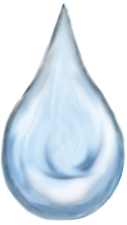
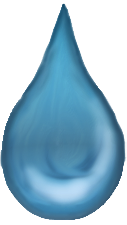
drops, enemy and player sprite upd

diff --git a/public/js/game.js b/public/js/game.js
@@ -123,13 +123,14 @@ function preload() {
     game.load.image('enemy', 'assets/enemy.png');
     game.load.image('p_def_weapon', 'assets/player_drop.png');
     game.load.image('e_def_weapon', 'assets/enemy_drop.png');
-    game.load.image('enemyAttack', 'assets/drop_db_down.png');
+    game.load.image('enemyAttack', 'assets/enemy_attack.png');
     game.load.image('land', 'assets/base_land.png');
     game.load.image('enemyLand', 'assets/invisible.png');
     game.load.image('invisible-box', 'assets/invisible.png');
     game.load.spritesheet('saladsprite', 'assets/saladsprite1.png', 374, 374);
-    game.load.image('playerAttack', 'assets/drop_lb_up.png');
+    game.load.image('playerAttack', 'assets/player_attack.png');
     game.load.image('background', 'assets/bg.png');
+    game.load.image('instructions', 'assets/bg_instructions.png');
 }
 
 // New game default setup

diff --git a/public/css/main.css b/public/css/main.css
@@ -37,6 +37,7 @@ html, body {
 .gamePaused {
   color: #4883BE;
   display: none;
+  background-image: 'instructions';
 
 }
 
